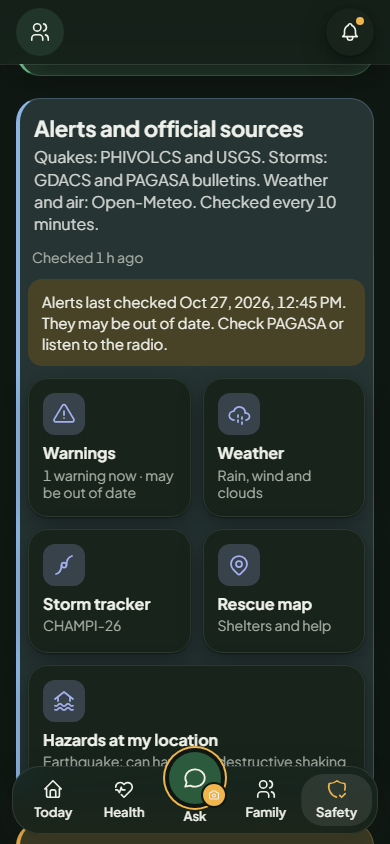
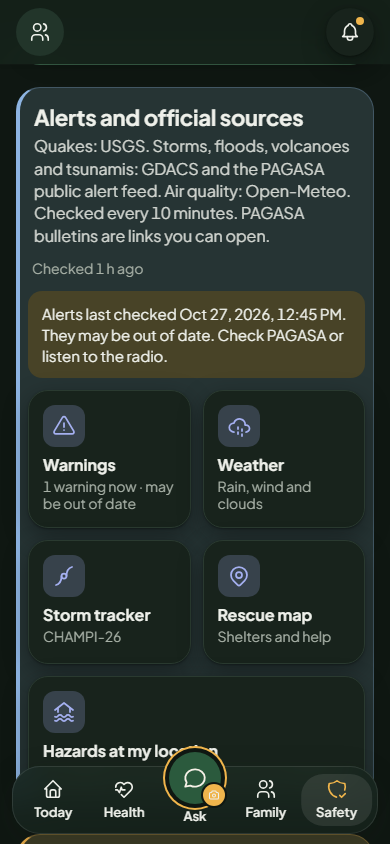
s12 lane D r3: SOURCES_LINE names only existing links; s5-alerts spec and amber shots follow

diff --git a/src/features/safety/alerts.ts b/src/features/safety/alerts.ts
@@ -71,7 +71,7 @@ export const hazardOf = (k: AlertKind): string | null =>
 // ---- D (session 12): honest freshness, honest sources, "does it affect us?" ----
 
 /** One sentence for every place that says where alerts come from (ML-12): never claim more than the ingest reads. */
-export const SOURCES_LINE = 'Quakes: USGS. Storms and floods: GDACS and the PAGASA public alert feed. Air quality: Open-Meteo. Checked every 10 minutes. PHIVOLCS and PAGASA bulletins are links you can open, not feeds.'
+export const SOURCES_LINE = 'Quakes: USGS. Storms, floods, volcanoes and tsunamis: GDACS and the PAGASA public alert feed. Air quality: Open-Meteo. Checked every 10 minutes. PAGASA bulletins are links you can open.'
 
 export const FRESH_AMBER_MIN = 60 // the ingest runs every 10 minutes; over an hour means something is wrong
 export const FRESH_RED_MIN = 24 * 60 // shortcut: a one-day cut-off for red, no per-source rule; the cron gap of 2026-10-17..27 would have shown red here

diff --git a/src/features/safety/alerts.test.ts b/src/features/safety/alerts.test.ts
@@ -134,7 +134,7 @@ describe('plain words and copy', () => {
     expect(affectsUs(a('s', 'tcws', at(151)), null).affects).toBe(false)
   })
   it('sources line names only what the ingest reads and the place label matches the Safety chip', () => {
-    expect(SOURCES_LINE).toBe('Quakes: USGS. Storms and floods: GDACS and the PAGASA public alert feed. Air quality: Open-Meteo. Checked every 10 minutes. PHIVOLCS and PAGASA bulletins are links you can open, not feeds.')
+    expect(SOURCES_LINE).toBe('Quakes: USGS. Storms, floods, volcanoes and tsunamis: GDACS and the PAGASA public alert feed. Air quality: Open-Meteo. Checked every 10 minutes. PAGASA bulletins are links you can open.')
     expect(placeLabel({ source: 'zone', zone: 'conel' })).toBe('Conel')
     expect(placeLabel({ source: 'gps', zone: 'dampas' })).toBe('Near you · Dampas')
     expect(placeLabel({ source: 'gps-abroad', zone: 'conel' })).toBe('Away · Conel')

diff --git a/e2e/s5-alerts.spec.ts b/e2e/s5-alerts.spec.ts
@@ -124,7 +124,7 @@ for (const scheme of ['light', 'dark'] as const) {
     await expect(hub.getByText('Checked 1 h ago')).toBeVisible()
     await expect(hub.getByText(/Alerts last checked .*They may be out of date\. Check PAGASA or listen to the radio\./)).toBeVisible()
     await expect(hub.getByRole('link', { name: /Warnings/ })).toContainText('may be out of date')
-    await expect(hub.getByText(/Quakes: PHIVOLCS and USGS/)).toBeVisible()
+    await expect(hub.getByText(/Quakes: USGS\./)).toBeVisible()
     await expect(page.getByText(/from PAGASA, PHIVOLCS and NDRRMC/)).toHaveCount(0)
     await hub.scrollIntoViewIfNeeded()
     await page.screenshot({ path: `${SHOTS}/hub-amber-${scheme}.png` })

diff --git a/docs/ALERTS.md b/docs/ALERTS.md
@@ -101,9 +101,9 @@ utility, local notice) or 150 km (storm, flood, heat, tsunami, volcano, GDACS) o
 "Far from you; no action needed" and hides the do-now steps. Hand-computed check: 0.8 degrees of latitude is 88.95 km, so a M4.5 quake 89 km from Conel is far.
 
 **Source copy.** One constant, `SOURCES_LINE`, replaces every claim that the app pulls PAGASA, PHIVOLCS or NDRRMC warnings:
-"Quakes: USGS. Storms and floods: GDACS and the PAGASA public alert feed. Air quality: Open-Meteo. Checked every 10 minutes. PHIVOLCS and PAGASA bulletins are links you can open, not feeds."
+"Quakes: USGS. Storms, floods, volcanoes and tsunamis: GDACS and the PAGASA public alert feed. Air quality: Open-Meteo. Checked every 10 minutes. PAGASA bulletins are links you can open."
 What the ingest really reads: USGS (quakes), GDACS (cyclone, flood, volcano, tsunami), the PAGASA public alert feed (wind signals, flood advisories) and
-Open-Meteo (air quality only, no weather). PHIVOLCS is not ingested (see "Not ingested") and neither are the PAGASA bulletin PDFs: the constant says they are links you can open, not feeds.
+Open-Meteo (air quality only, no weather). PHIVOLCS is not ingested (see "Not ingested") and neither are the PAGASA bulletin PDFs: the constant says PAGASA bulletins are links you can open, and PHIVOLCS is not mentioned as a source.
 The line names only what the ingest reads (ML-12). Other screens that still name PHIVOLCS or PAGASA as sources are outside lane D (SafetyPages, stormMode, heroCards) and are routed to the orchestrator.
 
 **GDACS in plain words.** GDACS statistics ("Population affected by Category 1 (120 km/h) wind speeds or higher is 0.291 million.") are shown as
